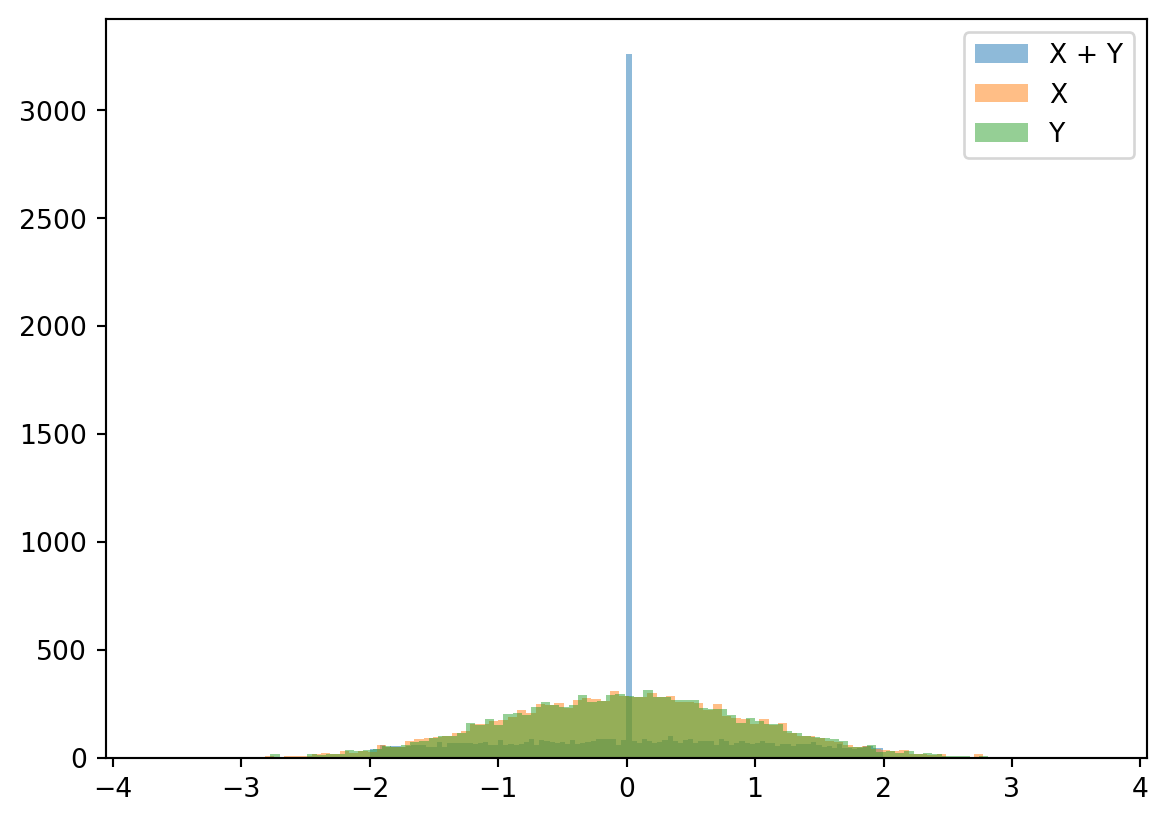
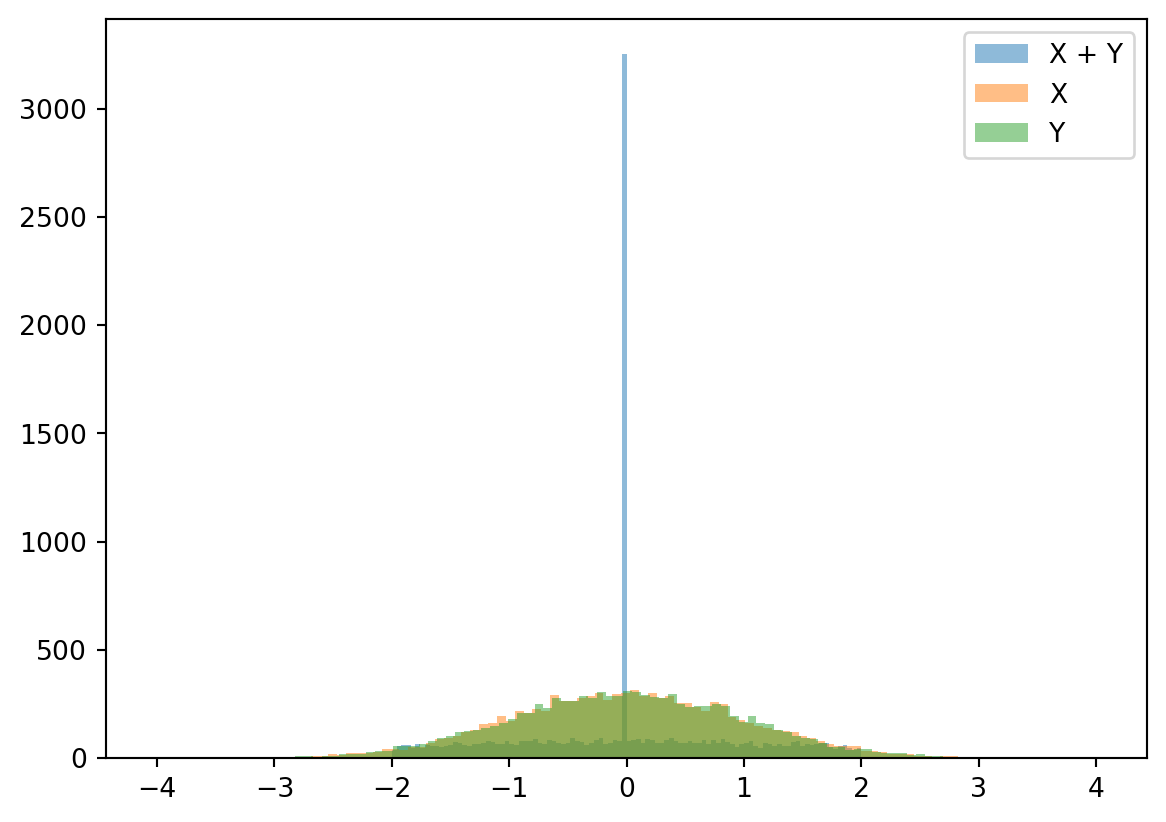
Built site for gh-pages

diff --git a/FCSC/ch2.html b/FCSC/ch2.html
@@ -275,11 +275,11 @@ Z_2 = \sqrt{-2\log(U_1)} \sin(2 \pi U_2).
 <span id="cb2-2"><a href="#cb2-2" aria-hidden="true" tabindex="-1"></a>plt.hist(Z1, bins<span class="op">=</span>bins, label<span class="op">=</span><span class="st">'Z1'</span>, alpha<span class="op">=</span><span class="fl">0.5</span>)</span>
 <span id="cb2-3"><a href="#cb2-3" aria-hidden="true" tabindex="-1"></a>plt.legend(loc<span class="op">=</span><span class="st">'upper right'</span>)</span>
 <span id="cb2-4"><a href="#cb2-4" aria-hidden="true" tabindex="-1"></a>plt.plot()</span></code><button title="Copy to Clipboard" class="code-copy-button"><i class="bi"></i></button></pre></div>
-<div class="cell-output cell-output-display" data-execution_count="115">
+<div class="cell-output cell-output-display" data-execution_count="2">
 <pre><code>[]</code></pre>
 </div>
 <div class="cell-output cell-output-display">
-<p><img src="ch2_files/figure-html/cell-3-output-2.png" width="575" height="415"></p>
+<p><img src="ch2_files/figure-html/cell-3-output-2.png" width="575" height="411"></p>
 </div>
 </div>
 <div class="cell" data-execution_count="3">
@@ -287,7 +287,7 @@ Z_2 = \sqrt{-2\log(U_1)} \sin(2 \pi U_2).
 <span id="cb4-2"><a href="#cb4-2" aria-hidden="true" tabindex="-1"></a>plt.hist(Z2, bins<span class="op">=</span>bins, label<span class="op">=</span><span class="st">'Z2'</span>, alpha<span class="op">=</span><span class="fl">0.5</span>)</span>
 <span id="cb4-3"><a href="#cb4-3" aria-hidden="true" tabindex="-1"></a>plt.legend(loc<span class="op">=</span><span class="st">'upper right'</span>)</span>
 <span id="cb4-4"><a href="#cb4-4" aria-hidden="true" tabindex="-1"></a>plt.plot()</span></code><button title="Copy to Clipboard" class="code-copy-button"><i class="bi"></i></button></pre></div>
-<div class="cell-output cell-output-display" data-execution_count="116">
+<div class="cell-output cell-output-display" data-execution_count="3">
 <pre><code>[]</code></pre>
 </div>
 <div class="cell-output cell-output-display">
@@ -297,7 +297,7 @@ Z_2 = \sqrt{-2\log(U_1)} \sin(2 \pi U_2).
 <div class="cell" data-execution_count="4">
 <div class="sourceCode cell-code" id="cb6"><pre class="sourceCode python code-with-copy"><code class="sourceCode python"><span id="cb6-1"><a href="#cb6-1" aria-hidden="true" tabindex="-1"></a>plt.hist2d(Z1, Z2, bins<span class="op">=</span>bins, density<span class="op">=</span><span class="va">True</span>)</span>
 <span id="cb6-2"><a href="#cb6-2" aria-hidden="true" tabindex="-1"></a>plt.plot()</span></code><button title="Copy to Clipboard" class="code-copy-button"><i class="bi"></i></button></pre></div>
-<div class="cell-output cell-output-display" data-execution_count="117">
+<div class="cell-output cell-output-display" data-execution_count="4">
 <pre><code>[]</code></pre>
 </div>
 <div class="cell-output cell-output-display">
@@ -475,11 +475,11 @@ x &amp; \text{if } |x| \leq 1, \\
 &amp;= \int_{-1}^{1} e^{t x} e^{-x^2/2} dx + (\int_{\infty}^{1} + \int_{-1}^{-\infty}) - e^{t x} e^{-x^2/2} dx \\
 &amp;= \int_{-1}^{1} e^{t x} e^{-x^2/2} dx + (\int_{1}^{\infty} + \int_{-\infty}^{-1} e^{t x} e^{-x^2/2} dx \\
 &amp;= \int_{-\infty}^{\infty} e^{tx} e^{-x^2/2} dx \\
-&amp;= \sqrt{2 \pi} \E(e^{tY}).
+&amp;= \sqrt{2 \pi} \E(e^{tX}).
 \end{align}
 \]</span></p>
 <p>Therefore, <span class="math inline">\(Y\)</span> and <span class="math inline">\(X\)</span> are indentically distributed. They are definitely not independent as <span class="math inline">\(Y\)</span> is a function of <span class="math inline">\(X\)</span> and so we have no right to expect that <span class="math inline">\(X + Y\)</span> is also Gaussian.</p>
-<p>To see that <span class="math inline">\(X +Y\)</span> is not Gaussian, note that its range is in <span class="math inline">\([-2,2]\)</span>; there are lower bounds on the tail of Gaussian tails which are non-zero.</p>
+<p>To see that <span class="math inline">\(X +Y\)</span> is not Gaussian, note that its range is in <span class="math inline">\([-2,2]\)</span>; there are lower bounds on Gaussian tails which are non-zero.</p>
 <div class="cell" data-execution_count="5">
 <div class="sourceCode cell-code" id="cb8"><pre class="sourceCode python code-with-copy"><code class="sourceCode python"><span id="cb8-1"><a href="#cb8-1" aria-hidden="true" tabindex="-1"></a>X <span class="op">=</span> rg.normal(<span class="dv">0</span>,<span class="dv">1</span>, N)</span>
 <span id="cb8-2"><a href="#cb8-2" aria-hidden="true" tabindex="-1"></a>Y <span class="op">=</span> [x <span class="cf">if</span> np.<span class="bu">abs</span>(x) <span class="op">&lt;=</span><span class="dv">1</span> <span class="cf">else</span> <span class="op">-</span>x <span class="cf">for</span> x <span class="kw">in</span> X]</span>
@@ -488,11 +488,11 @@ x &amp; \text{if } |x| \leq 1, \\
 <span id="cb8-5"><a href="#cb8-5" aria-hidden="true" tabindex="-1"></a>plt.hist(Y, bins, label<span class="op">=</span><span class="st">'Y'</span>, alpha<span class="op">=</span><span class="fl">0.5</span>)</span>
 <span id="cb8-6"><a href="#cb8-6" aria-hidden="true" tabindex="-1"></a>plt.legend(loc<span class="op">=</span><span class="st">'upper right'</span>)</span>
 <span id="cb8-7"><a href="#cb8-7" aria-hidden="true" tabindex="-1"></a>plt.plot()</span></code><button title="Copy to Clipboard" class="code-copy-button"><i class="bi"></i></button></pre></div>
-<div class="cell-output cell-output-display" data-execution_count="118">
+<div class="cell-output cell-output-display" data-execution_count="5">
 <pre><code>[]</code></pre>
 </div>
 <div class="cell-output cell-output-display">
-<p><img src="ch2_files/figure-html/cell-6-output-2.png" width="584" height="411"></p>
+<p><img src="ch2_files/figure-html/cell-6-output-2.png" width="583" height="411"></p>
 </div>
 </div>
 <div class="cell" data-execution_count="6">
@@ -502,11 +502,11 @@ x &amp; \text{if } |x| \leq 1, \\
 <span id="cb10-4"><a href="#cb10-4" aria-hidden="true" tabindex="-1"></a>ax.set_yticks(<span class="bu">range</span>(<span class="bu">len</span>(data)))</span>
 <span id="cb10-5"><a href="#cb10-5" aria-hidden="true" tabindex="-1"></a>ax.set_yticklabels([<span class="st">'X+Y'</span>, <span class="st">'X'</span>, <span class="st">'Y'</span>])</span>
 <span id="cb10-6"><a href="#cb10-6" aria-hidden="true" tabindex="-1"></a>plt.plot()</span></code><button title="Copy to Clipboard" class="code-copy-button"><i class="bi"></i></button></pre></div>
-<div class="cell-output cell-output-display" data-execution_count="119">
+<div class="cell-output cell-output-display" data-execution_count="6">
 <pre><code>[]</code></pre>
 </div>
 <div class="cell-output cell-output-display">
-<p><img src="ch2_files/figure-html/cell-7-output-2.png" width="579" height="411"></p>
+<p><img src="ch2_files/figure-html/cell-7-output-2.png" width="578" height="411"></p>
 </div>
 </div>
 

diff --git a/index.html b/index.html
@@ -192,7 +192,7 @@ ul.task-list li input[type="checkbox"] {
 
 <div class="quarto-listing quarto-listing-container-default" id="listing-listing">
 <div class="list quarto-listing-default">
-<div class="quarto-post image-right" data-index="0" data-listing-file-modified-sort="1672438574852" data-listing-reading-time-sort="4.355">
+<div class="quarto-post image-right" data-index="0" data-listing-file-modified-sort="1672439114469" data-listing-reading-time-sort="4.355">
 <div class="body">
 <a href="./FCSC/ch2.html">
 <h3 class="no-anchor listing-title">
